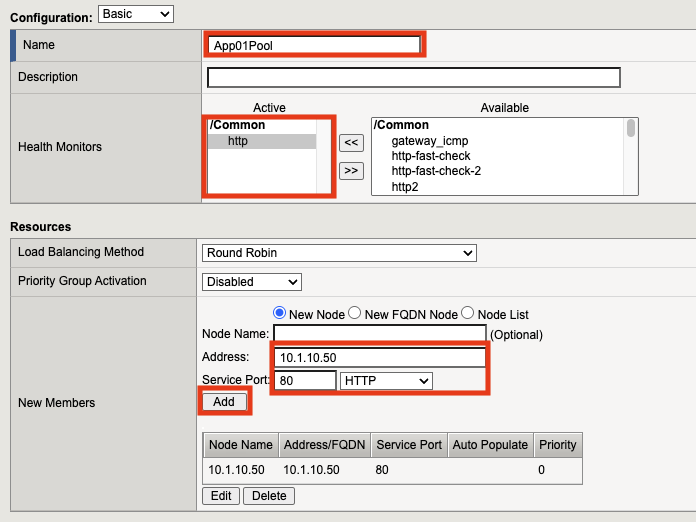
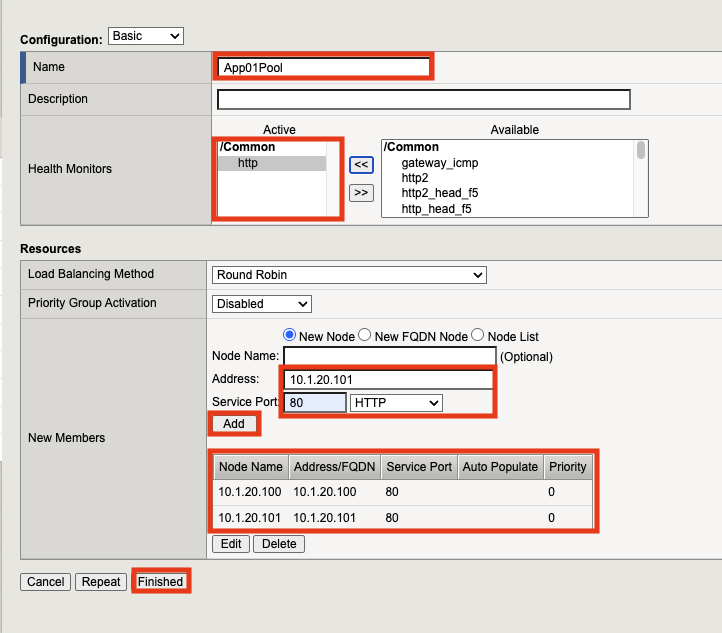
Fixes to partitions lab for grammar and new blueprint.

Changed region(s): [[0.0, 0.0, 1.0, 0.9808]]

diff --git a/docs/class9/module3_core/lab/partitions.rst b/docs/class9/module3_core/lab/partitions.rst
@@ -19,7 +19,7 @@ Login to the BIG-IP
 
 #. If you are not already logged in, locate **BIGIP-01** in the UDF Lab environment.
 #. Select **Access -> TMUI** to connect to the management interface.
-#. Login as **admin**.  If you need the password,it can be found under the system details in UDF.
+#. Login as **admin**.  If you need the password, it can be found under the system details in UDF.
 
 
 Create a Partition
@@ -44,13 +44,13 @@ Add Users
 
     .. image:: ./_images/partition-2.png
 
-#. Click **Add**, ensure that the role and partition are displayed in the partition access box below, then click **Finished**.
+#. Click **Add**. Ensure that the role and partition are displayed in the partition access box below, then click **Finished**.
 
     .. image:: ./_images/partition-3.png
 
 #. Create another user by clicking **Create** again.
 #. Name the user **App01Operator** and assign a passowrd.
-#. Select the role **Operator** and assign it to the partition **App01** then click **Finished**.
+#. Select the role **Operator**. Assign the role to the partition **App01** then click **Finished**.
 
     .. image:: ./_images/partition-4.png
 
@@ -59,23 +59,25 @@ Explore & Create Objects
 ++++++++++++++++++++++++
 
 #. Logout of the TMUI and lock back in as **App01Admin**.
-#. Since it's you're first time logging in, you'll regrettably be asked to change your password.  While this can be an annoyance, this is the default behavior and an important security control.  Again, choose a password you can remember.
+#. Since it's your first time logging in, you'll regrettably be asked to change your password.  While this can be an annoyance, this is the default behavior and an important security control.  Again, choose a password you can remember.
 #. If you've done everything correctly so far, you'll notice that your user is locked to the **App01** Partition.
 
     .. image:: ./_images/partition-5.png
 
 #. Navigate to **Local Traffic -> Virtual Servers**.
 #. **Click** any of the Virtual Servers in the list.
-#. You'll notice that all of the options are greyed out and you cannot make changes.  This is because these objects are in the common partition which is owned by box level administrators and you do not have sufficient privilege with this account.
+#. You'll notice that all of the options are greyed out and you cannot make changes.  This is because these objects are in the common partition which is owned by box level administrators and you do not have sufficient privilege with your current account.
 #. Navigate to **Local Traffic -> Pools**.
 #. Click **Create**.
 #. Name the pool **App01Pool** and select the **http health monitor**.
-#. Add a node with the IP Address **10.1.10.50** on **port 80** (don't forget to click add).  It should look like this:
+#. Add a node with the IP Address **10.1.20.100** on **port 80** (don't forget to click add) and another with the IP address **10.1.20.101** also on **port 80**.  
+    
+   It should look like this:
 
-    .. image:: ./_images/partition-6.png
+     .. image:: ./_images/partition-6.png
 
 #. If it looks correct, click **Finished.**
-#. **Return** to the **virtual servers list**.
+#. **Return** to the **virtual server list**.
 #. Click **Create**.
 #. **Configure** the following virtual server settings:
 
@@ -118,7 +120,9 @@ Test Limited Access
 
     .. image:: ./_images/partition-8.png
 
-   The operator role allows read access to allowed partitions and basic actions like enabling and disabling pool members and nodes.  For more details on roles and their permissions, see below.
+   The operator role allows read access to allowed partitions and basic actions like enabling and disabling pool members and nodes.  
+
+   For more details on roles and their permissions, see below.
 
 
 More Information about User Roles

diff --git a/docs/class9/module3_core/lab/audit_logging.rst b/docs/class9/module3_core/lab/audit_logging.rst
@@ -18,7 +18,7 @@ Login to the BIG-IP
 
 #. If you are not already logged in, locate **BIGIP-01** in the UDF Lab environment.
 #. Select **Access -> TMUI** to connect to the management interface.
-#. Login as **admin**.  If you need the password,it can be found under the system details in UDF.
+#. Login as **admin**.  If you need the password, it can be found under the system details in UDF.
 
 
 Review the Audit Logs

diff --git a/docs/class9/module3_core/lab/ihealth.rst b/docs/class9/module3_core/lab/ihealth.rst
@@ -17,7 +17,7 @@ Login to the BIG-IP
 
 #. If you are not already logged in, locate **BIGIP-01** in the UDF Lab environment.
 #. Select **Access -> TMUI** to connect to the management interface.
-#. Login as **admin**.  If you need the password,it can be found under the system details in UDF.
+#. Login as **admin**.  If you need the password, it can be found under the system details in UDF.
 
 
 Create a Qkview
